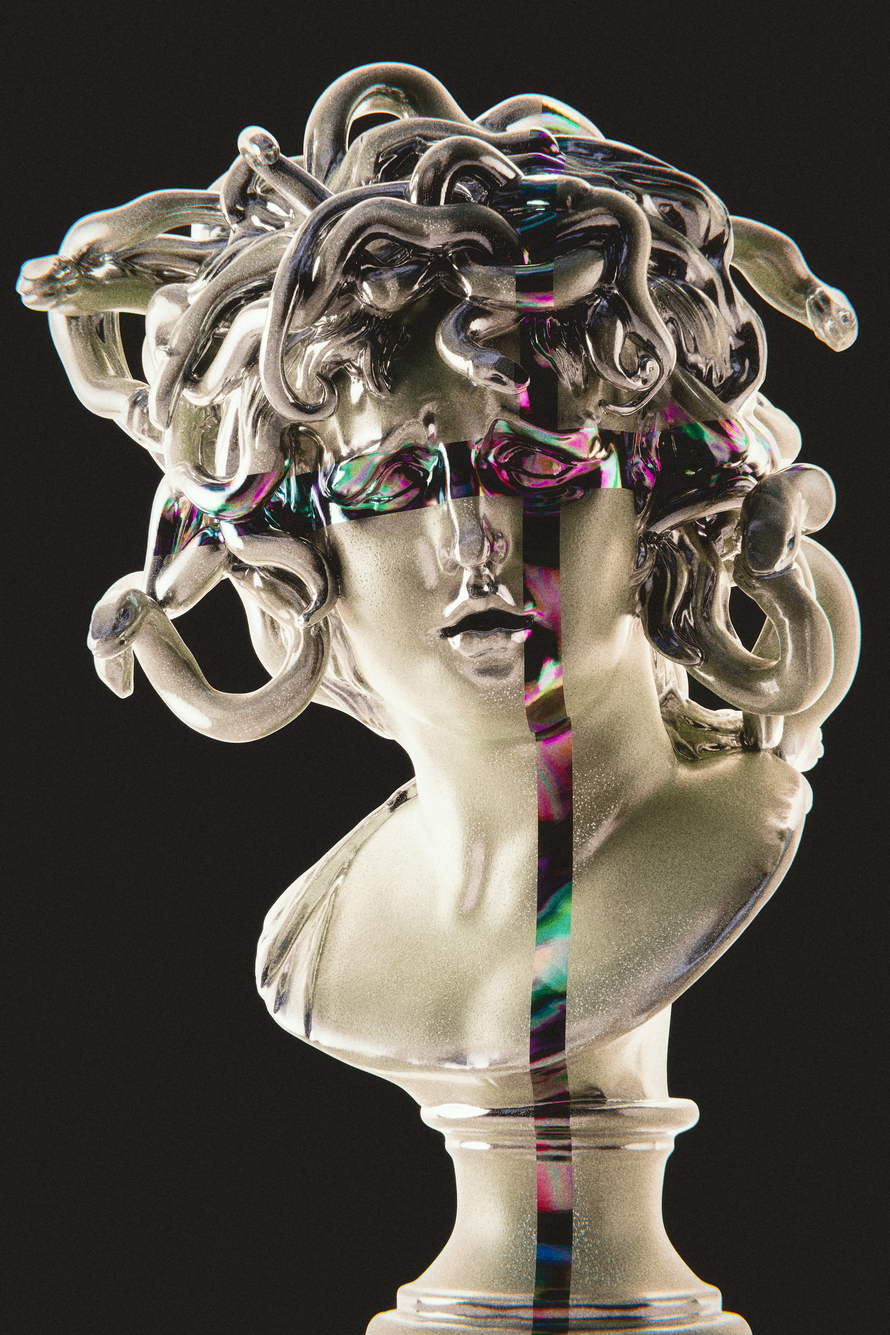
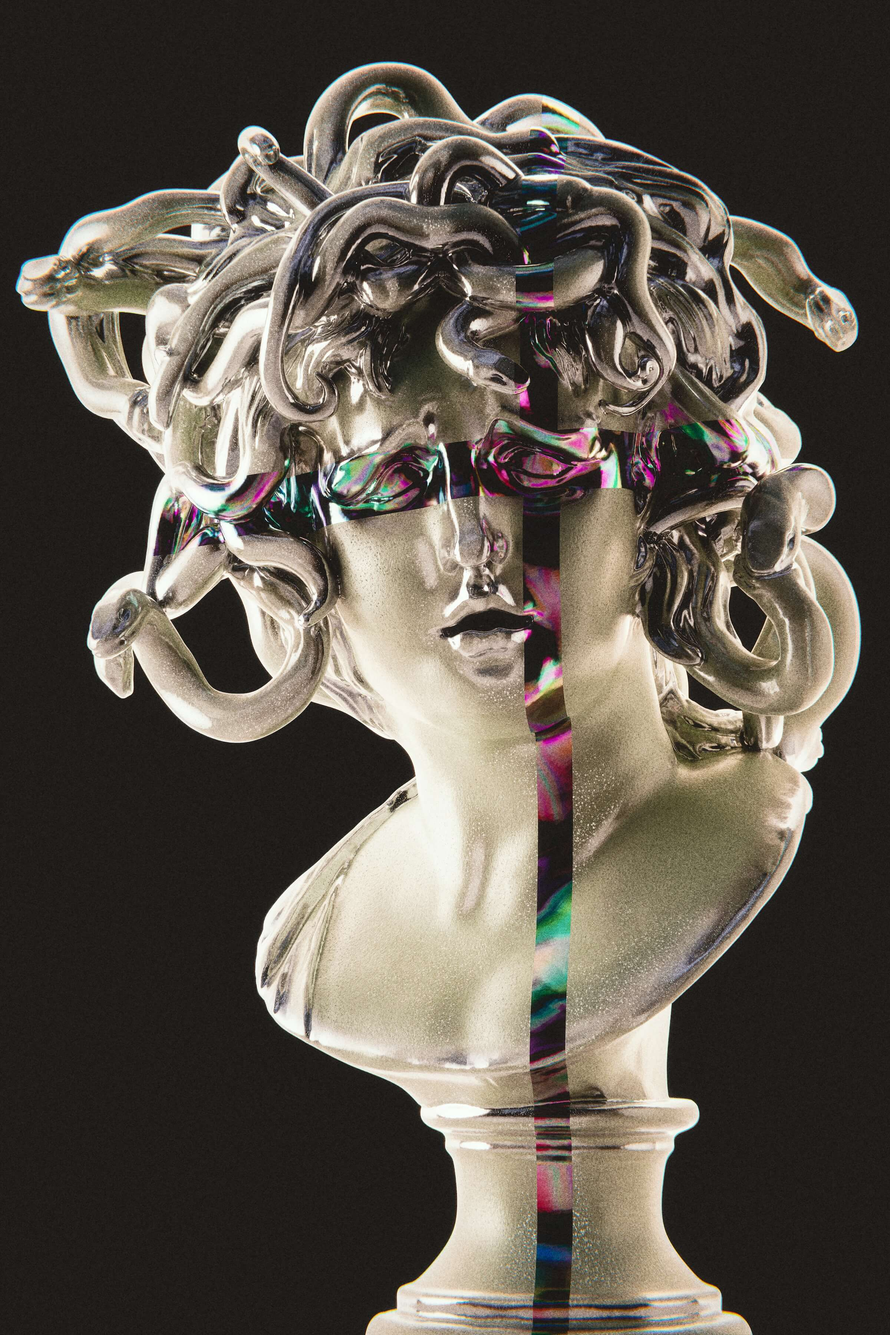
compress all pics

diff --git a/index.html b/index.html
@@ -5,7 +5,7 @@
   <meta charset="UTF-8" />
   <meta name="viewport" content="width=device-width, initial-scale=1.0" />
   <title>Issam Boudhar | Porfolio</title>
-  <link rel="shortcut icon" href="./assets/home/LOGO WEBWORK.png">
+  <link rel="shortcut icon" href="./assets/home/LOGO-IB.png">
   <link rel="stylesheet" href="./main.css" />
   <link rel="stylesheet" href="./styles/index.css" />
 </head>
@@ -50,7 +50,7 @@
     <!-- article -->
     <div class="article" id="hero-article">
       <div class="article-img" id="article-img-1">
-        <img src=".//assets/home/Eugène_Delacroix_-_Le_28_Juillet._La_Liberté_guidant_le_peuple.jpg" alt="art painting of Eugène Delacroix Le 28 Juillet. La Liberté guidant le peuple " />
+        <img src="./assets/home/Eugène_Delacroix_-_Le_28_Juillet._La_Liberté_guidant_le_peuple.jpg" alt="art painting of Eugène Delacroix Le 28 Juillet. La Liberté guidant le peuple " />
       </div>
       <div class="article-copy">
         <div class="article-title">
@@ -74,7 +74,7 @@
           <div class="article-copy">
             <div class="article-title">
               <p><a href="pages/work.html">some of my Work</a></p>
-              <span>(Click here ↑ )</span>
+              <span>(Click here ☝ )</span>
             </div>
           </div>
         </div>
